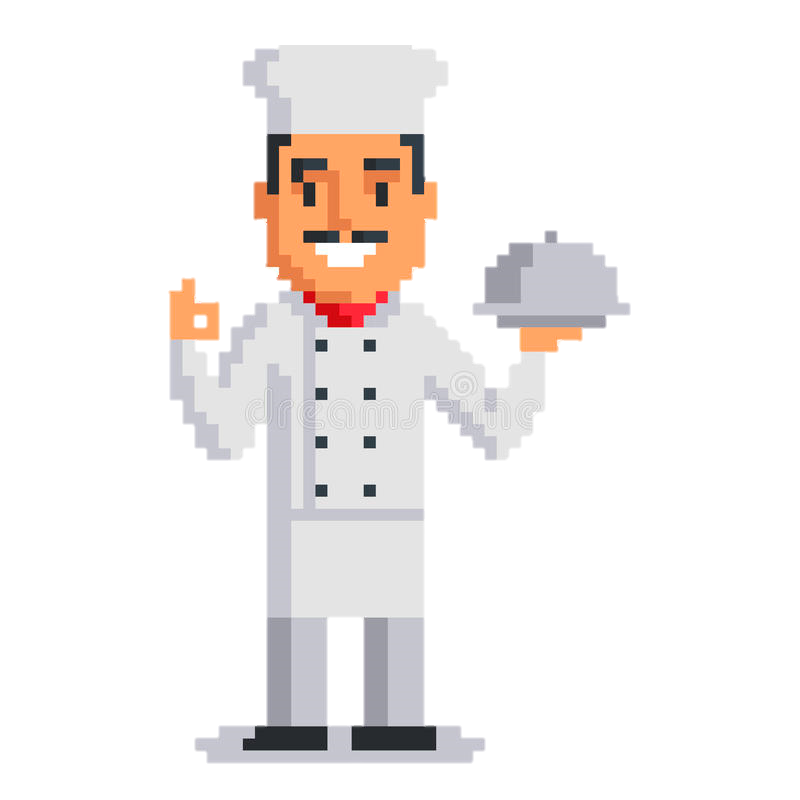
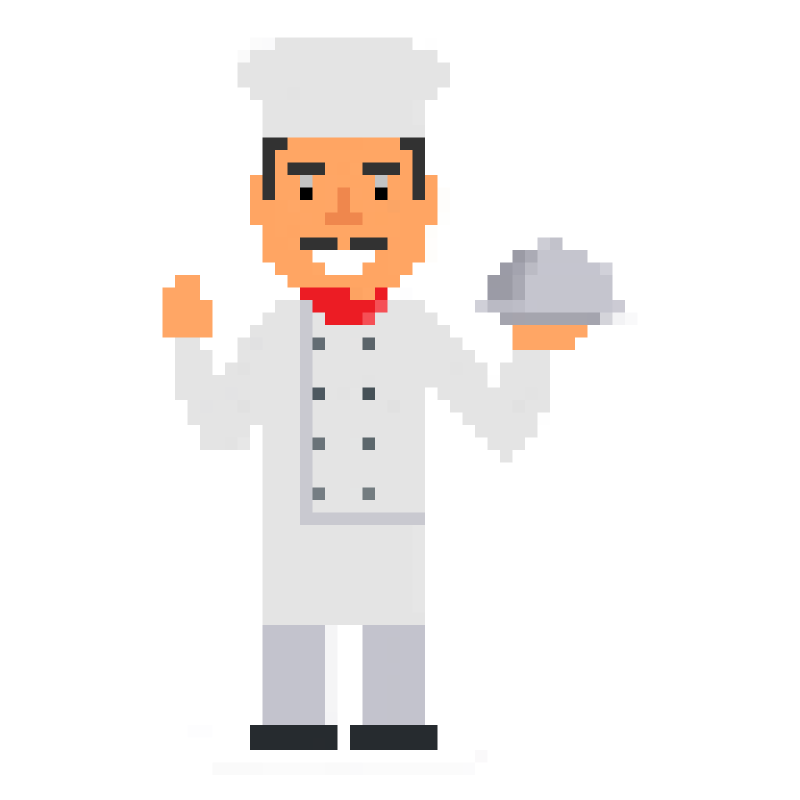
added new sprites for other cooks and customer.

diff --git a/core/src/com/badlogic/drop/Sprites/Customer.java b/core/src/com/badlogic/drop/Sprites/Customer.java
@@ -19,7 +19,7 @@ public class Customer extends NPC{
     public Customer(PlayScreen screen, float x, float y) {
         super(screen, x, y);
         stateTime = 0;
-        customerTexture = new Texture("cook.png");
+        customerTexture = new Texture("customer.png");
         setBounds(getX(),getY(),128/PiazzaPanic.PPM,128/PiazzaPanic.PPM);
         setRegion(customerTexture);
         setToDestroy = false;
